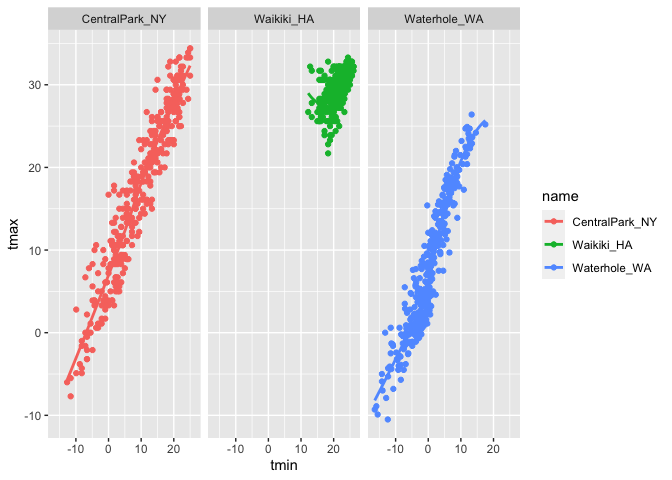
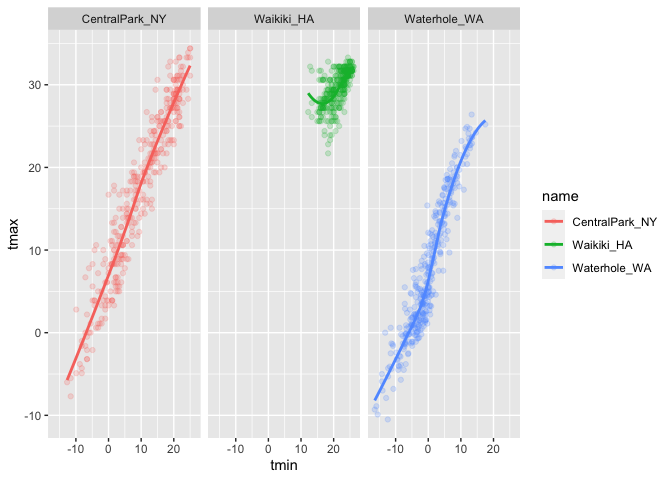
many plots

diff --git a/viz_and_eda.md b/viz_and_eda.md
@@ -5,14 +5,14 @@ viz\_part\_1
 library(tidyverse)
 ```
 
-    ## ── Attaching packages ─────────────────────────────────────────────────────────────────── tidyverse 1.3.0 ──
+    ## ── Attaching packages ──────────────────────────────────────────────────────────────────── tidyverse 1.3.0 ──
 
     ## ✓ ggplot2 3.3.2     ✓ purrr   0.3.4
     ## ✓ tibble  3.0.3     ✓ dplyr   1.0.2
     ## ✓ tidyr   1.1.2     ✓ stringr 1.4.0
     ## ✓ readr   1.3.1     ✓ forcats 0.5.0
 
-    ## ── Conflicts ────────────────────────────────────────────────────────────────────── tidyverse_conflicts() ──
+    ## ── Conflicts ─────────────────────────────────────────────────────────────────────── tidyverse_conflicts() ──
     ## x dplyr::filter() masks stats::filter()
     ## x dplyr::lag()    masks stats::lag()
 
@@ -137,7 +137,7 @@ facet some things\!
 ``` r
 weather_df %>% 
   ggplot(aes(x= tmin, y = tmax, color= name))+
-  geom_point()+
+  geom_point(alpha= .2)+
   geom_smooth(se=FALSE)+
   facet_grid(. ~ name)
 ```
@@ -148,4 +148,119 @@ weather_df %>%
 
     ## Warning: Removed 15 rows containing missing values (geom_point).
 
-![](viz_and_eda_files/figure-gfm/unnamed-chunk-8-1.png)<!-- -->
+![](viz_and_eda_files/figure-gfm/unnamed-chunk-8-1.png)<!-- --> Let’s
+combine some elements and try a new plot.
+
+``` r
+weather_df %>% 
+  ggplot(aes(x=date, y=tmax, color=name))+
+  geom_point(aes(size=prcp), alpha=0.5)+
+  geom_smooth(se=FALSE)+
+  facet_grid(. ~ name)
+```
+
+    ## `geom_smooth()` using method = 'loess' and formula 'y ~ x'
+
+    ## Warning: Removed 3 rows containing non-finite values (stat_smooth).
+
+    ## Warning: Removed 3 rows containing missing values (geom_point).
+
+![](viz_and_eda_files/figure-gfm/unnamed-chunk-9-1.png)<!-- --> \#\#
+Some small notes
+
+How many geoms have to exist
+
+``` r
+weather_df %>% 
+  ggplot(aes(x=tmin, y=tmax, color=name))+
+  geom_smooth(se=FALSE)
+```
+
+    ## `geom_smooth()` using method = 'loess' and formula 'y ~ x'
+
+    ## Warning: Removed 15 rows containing non-finite values (stat_smooth).
+
+![](viz_and_eda_files/figure-gfm/unnamed-chunk-10-1.png)<!-- --> You can
+use a neat geom\!
+
+``` r
+weather_df %>% 
+  ggplot(aes(x=tmin, y=tmax))+
+  geom_density2d()+
+  geom_point()
+```
+
+    ## Warning: Removed 15 rows containing non-finite values (stat_density2d).
+
+    ## Warning: Removed 15 rows containing missing values (geom_point).
+
+![](viz_and_eda_files/figure-gfm/unnamed-chunk-11-1.png)<!-- --> \#\#
+Univariate plots
+
+Histograms are really great.
+
+``` r
+weather_df %>% 
+  ggplot(aes(x=tmin))+
+  geom_histogram()
+```
+
+    ## `stat_bin()` using `bins = 30`. Pick better value with `binwidth`.
+
+    ## Warning: Removed 15 rows containing non-finite values (stat_bin).
+
+![](viz_and_eda_files/figure-gfm/unnamed-chunk-12-1.png)<!-- -->
+
+Can we add color…
+
+``` r
+weather_df %>% 
+  ggplot(aes(x=tmin, fill= name))+
+  geom_histogram()+
+facet_grid(. ~ name)
+```
+
+    ## `stat_bin()` using `bins = 30`. Pick better value with `binwidth`.
+
+    ## Warning: Removed 15 rows containing non-finite values (stat_bin).
+
+![](viz_and_eda_files/figure-gfm/unnamed-chunk-13-1.png)<!-- --> Let’s
+try a new geometry\!
+
+``` r
+weather_df %>% 
+  ggplot(aes(x=tmin, fill=name))+
+  geom_density(alpha=.3, adjust=.5)
+```
+
+    ## Warning: Removed 15 rows containing non-finite values (stat_density).
+
+![](viz_and_eda_files/figure-gfm/unnamed-chunk-14-1.png)<!-- --> What
+about boxplots??
+
+``` r
+weather_df %>% 
+  ggplot(aes(x=name,y = tmin))+
+  geom_boxplot()
+```
+
+    ## Warning: Removed 15 rows containing non-finite values (stat_boxplot).
+
+![](viz_and_eda_files/figure-gfm/unnamed-chunk-15-1.png)<!-- -->
+
+Trendy plots
+
+``` r
+weather_df %>% 
+  ggplot(aes(x= name, y= tmin, fill=name))+
+  geom_violin(alpha=0.4)+
+  stat_summary(fun="median")
+```
+
+    ## Warning: Removed 15 rows containing non-finite values (stat_ydensity).
+
+    ## Warning: Removed 15 rows containing non-finite values (stat_summary).
+
+    ## Warning: Removed 3 rows containing missing values (geom_segment).
+
+![](viz_and_eda_files/figure-gfm/unnamed-chunk-16-1.png)<!-- -->
